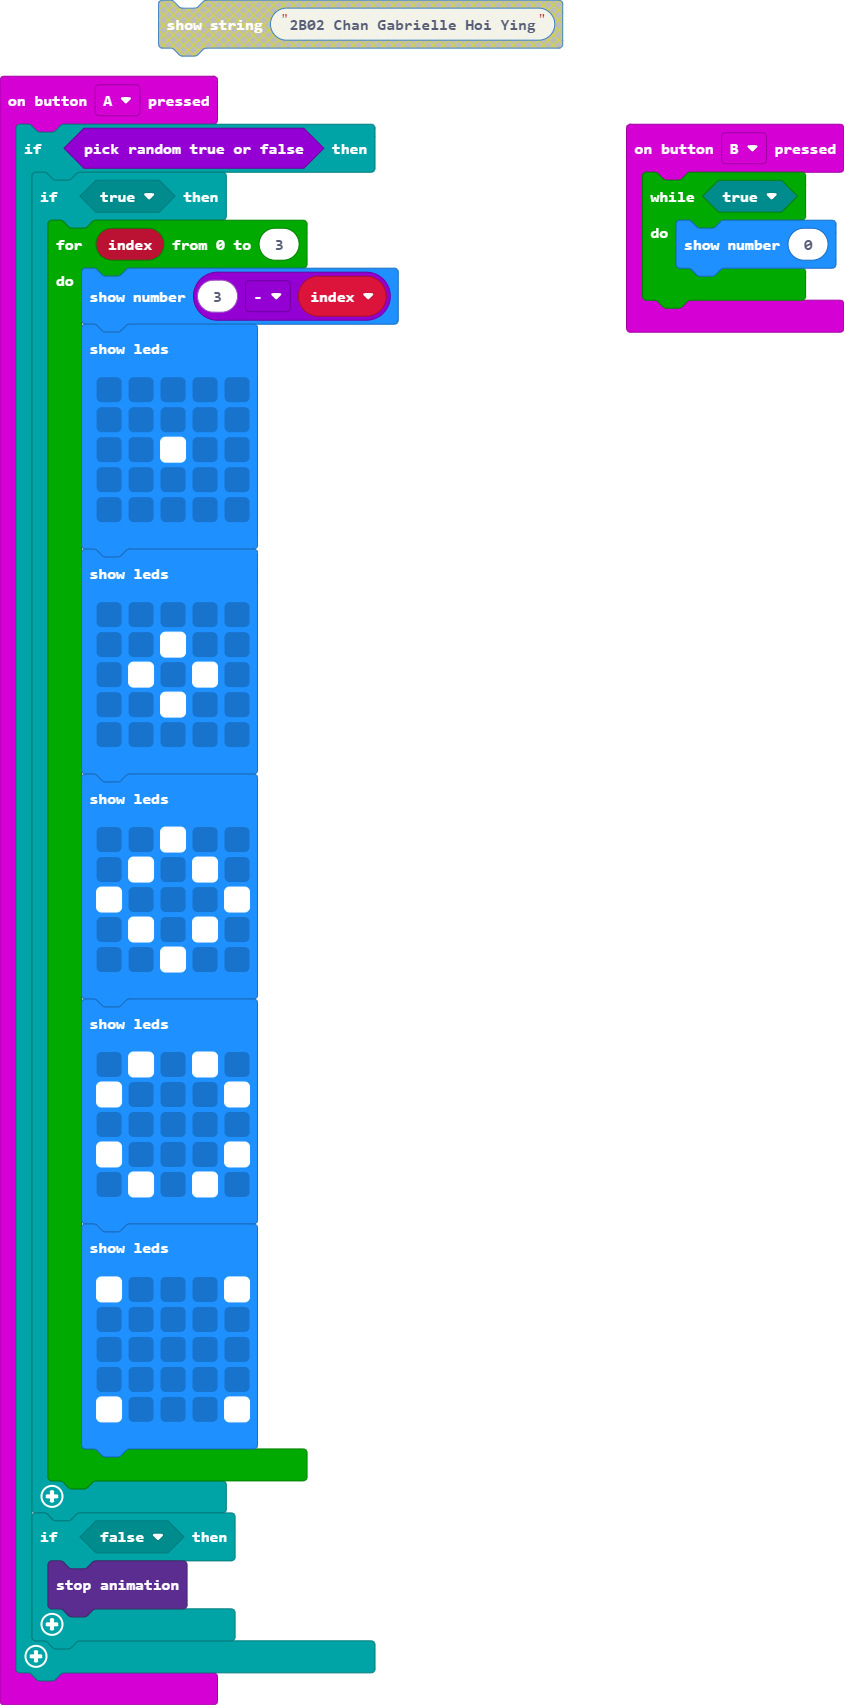
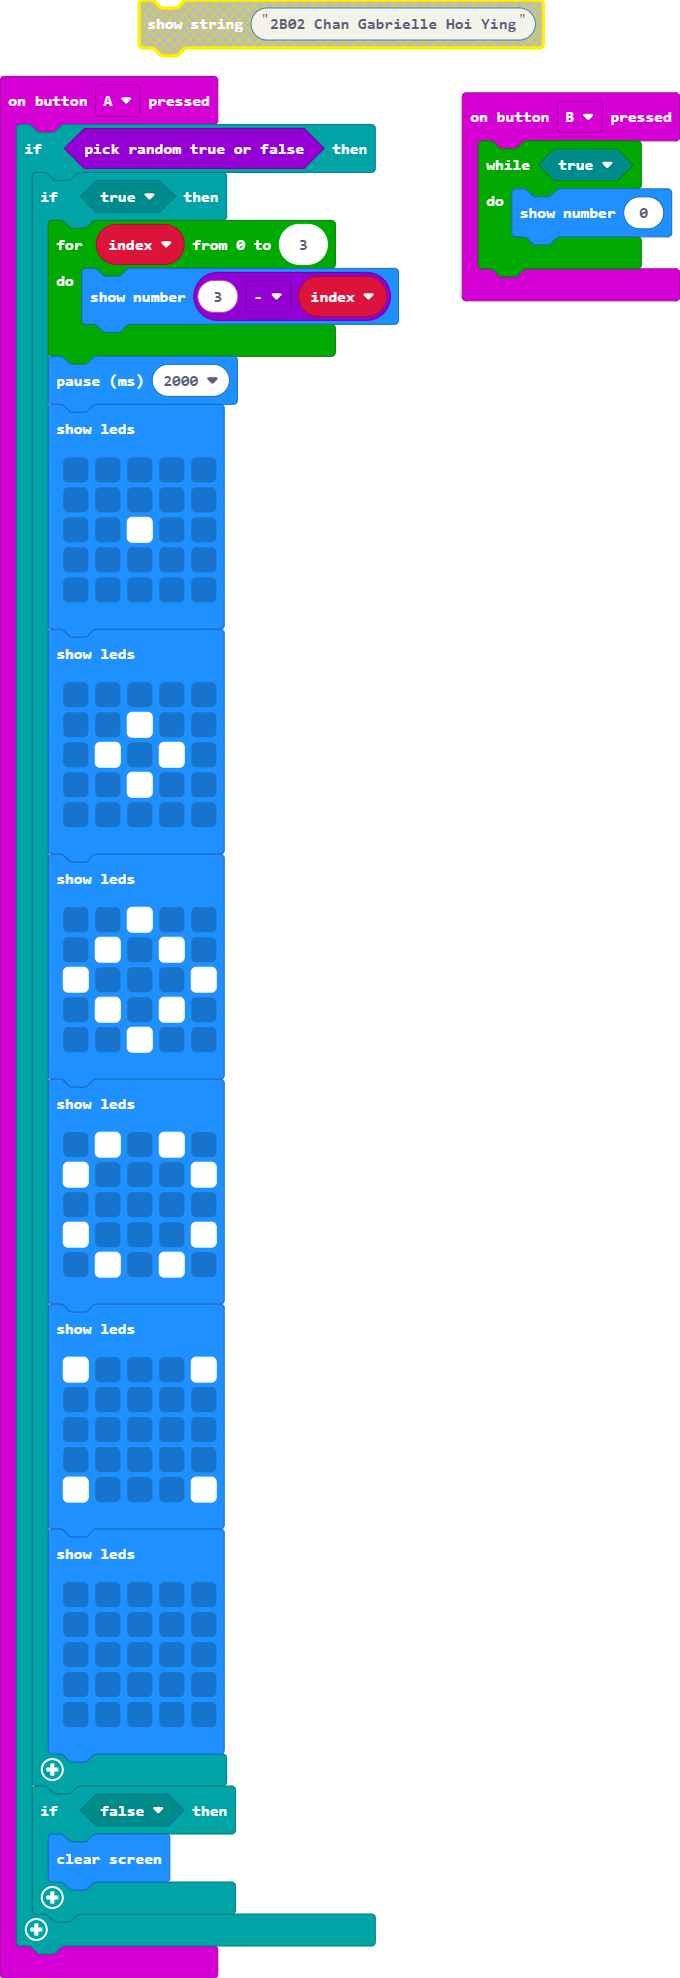
Update pxt.json, main.blocks, main.ts, main.py

Changed region(s): [[0.0, 0.0, 1.0, 1.0]]

diff --git a/main.ts b/main.ts
@@ -3,45 +3,53 @@ input.onButtonPressed(Button.A, function () {
         if (true) {
             for (let index = 0; index <= 3; index++) {
                 basic.showNumber(3 - index)
-                basic.showLeds(`
-                    . . . . .
-                    . . . . .
-                    . . # . .
-                    . . . . .
-                    . . . . .
-                    `)
-                basic.showLeds(`
-                    . . . . .
-                    . . # . .
-                    . # . # .
-                    . . # . .
-                    . . . . .
-                    `)
-                basic.showLeds(`
-                    . . # . .
-                    . # . # .
-                    # . . . #
-                    . # . # .
-                    . . # . .
-                    `)
-                basic.showLeds(`
-                    . # . # .
-                    # . . . #
-                    . . . . .
-                    # . . . #
-                    . # . # .
-                    `)
-                basic.showLeds(`
-                    # . . . #
-                    . . . . .
-                    . . . . .
-                    . . . . .
-                    # . . . #
-                    `)
             }
+            basic.pause(2000)
+            basic.showLeds(`
+                . . . . .
+                . . . . .
+                . . # . .
+                . . . . .
+                . . . . .
+                `)
+            basic.showLeds(`
+                . . . . .
+                . . # . .
+                . # . # .
+                . . # . .
+                . . . . .
+                `)
+            basic.showLeds(`
+                . . # . .
+                . # . # .
+                # . . . #
+                . # . # .
+                . . # . .
+                `)
+            basic.showLeds(`
+                . # . # .
+                # . . . #
+                . . . . .
+                # . . . #
+                . # . # .
+                `)
+            basic.showLeds(`
+                # . . . #
+                . . . . .
+                . . . . .
+                . . . . .
+                # . . . #
+                `)
+            basic.showLeds(`
+                . . . . .
+                . . . . .
+                . . . . .
+                . . . . .
+                . . . . .
+                `)
         }
         if (false) {
-            led.stopAnimation()
+            basic.clearScreen()
         }
     }
 })

diff --git a/main.py b/main.py
@@ -1,0 +1,48 @@
+def on_button_pressed_a():
+    if Math.random_boolean():
+        if True:
+            for index in range(4):
+                basic.show_number(3 - index)
+                basic.show_leds("""
+                    . . . . .
+                                        . . . . .
+                                        . . # . .
+                                        . . . . .
+                                        . . . . .
+                """)
+                basic.show_leds("""
+                    . . . . .
+                                        . . # . .
+                                        . # . # .
+                                        . . # . .
+                                        . . . . .
+                """)
+                basic.show_leds("""
+                    . . # . .
+                                        . # . # .
+                                        # . . . #
+                                        . # . # .
+                                        . . # . .
+                """)
+                basic.show_leds("""
+                    . # . # .
+                                        # . . . #
+                                        . . . . .
+                                        # . . . #
+                                        . # . # .
+                """)
+                basic.show_leds("""
+                    # . . . #
+                                        . . . . .
+                                        . . . . .
+                                        . . . . .
+                                        # . . . #
+                """)
+        if False:
+            led.stop_animation()
+input.on_button_pressed(Button.A, on_button_pressed_a)
+
+def on_button_pressed_b():
+    while True:
+        basic.show_number(0)
+input.on_button_pressed(Button.B, on_button_pressed_b)
